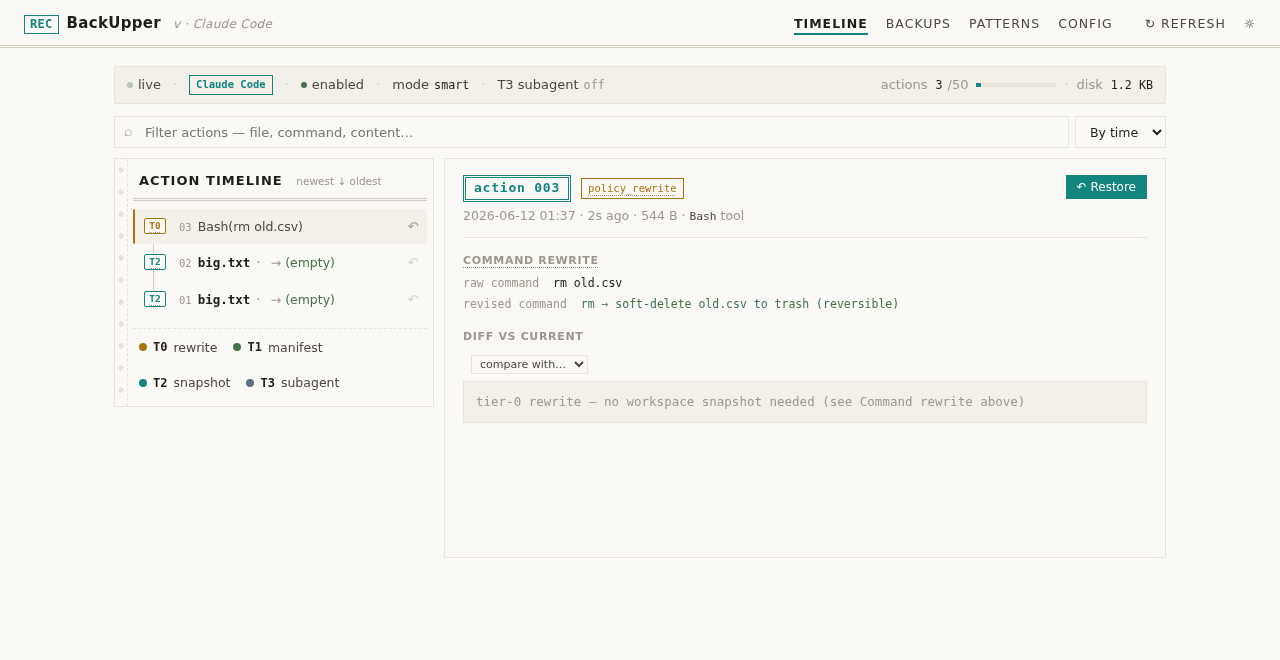
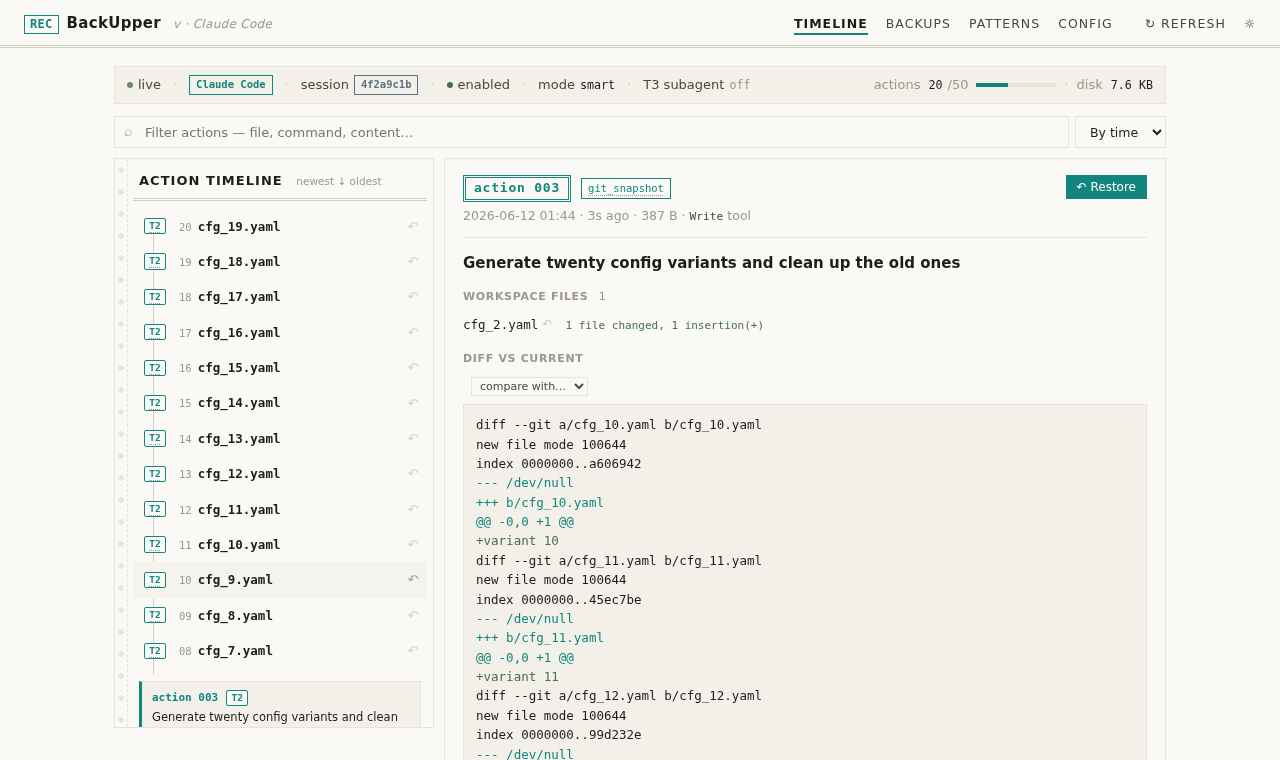
feat(dashboard): pinned selected-action box + capped scrolling tape; cleaner subagent fold
- Clicking an action now expands its description in a pinned box at
  the foot of the timeline (action id, tier chip, full instruction,
  time/tool/size) — stays visible while the rows scroll, so you never
  lose track of what's selected on a long tape
- The row list scrolls inside a ~14-row viewport; legend and the
  description box sit below, always on screen
- Subagent capture fold drops the inline '2 files · 3 recovery cmds'
  hint; the meta moved inside the fold body

diff --git a/src/dashboard/static/index.html b/src/dashboard/static/index.html
@@ -378,6 +378,16 @@
 
   .detail-section h4 .sec-hint { font-weight: 400; text-transform: none; letter-spacing: 0; color: var(--muted); margin-left: 6px; }
 
+  /* Timeline rows scroll inside a capped viewport (~14 rows); the
+     selected-action box and legend stay pinned below. */
+  .tl-scroll { max-height: 470px; overflow-y: auto; }
+  .tl-selected-info { display: none; margin: 6px 6px 0; padding: 8px 10px; border: 1px solid var(--line); border-left: 3px solid var(--accent); background: var(--bg-soft); font-size: 11.5px; line-height: 1.5; color: var(--text-dim); }
+  .tl-selected-info.show { display: block; }
+  .tl-selected-info .tsi-head { display: flex; align-items: center; gap: 8px; margin-bottom: 3px; }
+  .tl-selected-info .tsi-head b { color: var(--accent); font-family: "JetBrains Mono", monospace; font-size: 11px; }
+  .tl-selected-info .tsi-body { color: var(--text); word-break: break-word; }
+  .tl-selected-info .tsi-meta { color: var(--muted); font-size: 10.5px; margin-top: 3px; }
+
   /* Clickable tier legend + description box */
   .tl-legend .item { cursor: pointer; }
   .tl-legend .item:hover b { color: var(--accent); }
@@ -944,7 +954,8 @@ function renderTimeline() {
 function renderByTime(actions) {
   const sorted = [...actions].sort((a, b) => b.seq - a.seq);
   const rows = sorted.map(renderTimelineRowHtml).join("");
-  return `<div class="tl-rows"><div class="tl-vline"></div>${rows}</div>` + legendHtml();
+  return `<div class="tl-scroll"><div class="tl-rows"><div class="tl-vline"></div>${rows}</div></div>`
+    + selectedInfoShell() + legendHtml();
 }
 
 function renderByFile(actions) {
@@ -967,7 +978,36 @@ function renderByFile(actions) {
       ${sorted.map(renderTimelineRowHtml).join("")}
     </div>`;
   }
-  return html + legendHtml();
+  return `<div class="tl-scroll">${html}</div>` + selectedInfoShell() + legendHtml();
+}
+
+function selectedInfoShell() {
+  return `<div class="tl-selected-info" id="tl-selected-info"></div>`;
+}
+
+// Describe the selected action at the foot of the timeline — visible
+// even when the selected row is scrolled out of view.
+function updateTimelineInfo(seq) {
+  const box = $("tl-selected-info");
+  if (!box) return;
+  const a = currentActions.find((x) => x.seq === seq);
+  if (!a) { box.classList.remove("show"); box.innerHTML = ""; return; }
+  const tier = tierOf(a);
+  const what = a.instruction || a.originalAction || describeFallback(a);
+  const metaBits = [];
+  if (a.timeFormatted) metaBits.push(a.timeFormatted);
+  if (a.toolName) metaBits.push(`${a.toolName} tool`);
+  if (typeof a.sizeBytes === "number") metaBits.push(formatBytes(a.sizeBytes));
+  box.innerHTML = `<div class="tsi-head"><b>action ${String(a.seq).padStart(3, "0")}</b><span class="tl-node ${tier.cls}" style="position:static">${tier.tag}</span></div>
+    <div class="tsi-body">${escapeHtml(what)}</div>
+    <div class="tsi-meta">${escapeHtml(metaBits.join(" · "))}</div>`;
+  box.classList.add("show");
+}
+function describeFallback(a) {
+  const c = compactContent(a);
+  if (c.kind === "bash") return `${c.verb} ${c.target || ""}`.trim();
+  if (c.kind === "edit" || c.kind === "write") return c.file || "";
+  return c.text || "";
 }
 
 function legendHtml() {
@@ -1028,6 +1068,7 @@ function wireRowEvents() {
   if (selectedSeq !== null) {
     const row = document.querySelector(`.tl-row[data-seq="${selectedSeq}"]`);
     if (row) row.classList.add("selected");
+    updateTimelineInfo(selectedSeq);
   }
 }
 
@@ -1037,6 +1078,7 @@ function selectAction(seq) {
   document.querySelectorAll(".tl-row").forEach((r) => {
     r.classList.toggle("selected", parseInt(r.dataset.seq, 10) === seq);
   });
+  updateTimelineInfo(seq);
   renderDetail(seq);
 }
 
@@ -1085,7 +1127,7 @@ function renderDetail(seq) {
     if (a.subagent.externalShadowFileCount > 0) meta.push(`${a.subagent.externalShadowFileCount} files`);
     if (a.subagent.recoveryCommandCount > 0)    meta.push(`${a.subagent.recoveryCommandCount} recovery cmds`);
     if (a.subagent.liveRestore)                 meta.push(`live-restore`);
-    subagentSection = `<details class="detail-acc"><summary>Subagent capture${meta.length ? `<span class="hint">${meta.join(" · ")}</span>` : ""}</summary><div class="acc-body"><div class="kv" style="font-size:11.5px;font-weight:400">${escapeHtml(a.subagent.description || "")}</div></div></details>`;
+    subagentSection = `<details class="detail-acc"><summary>Subagent capture</summary><div class="acc-body"><div class="kv" style="font-size:11.5px;font-weight:400">${escapeHtml(a.subagent.description || "")}</div>${meta.length ? `<div class="kv" style="color:var(--muted);margin-top:3px;font-size:11px">${meta.join(" · ")}</div>` : ""}</div></details>`;
   }
 
   let filesBody = "";
